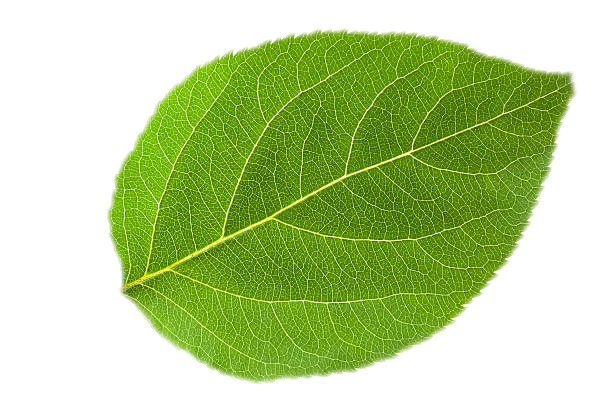
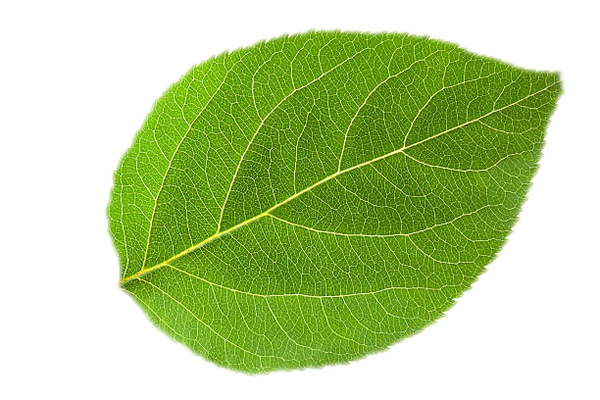
added image resize to improve performance in sesarching for graphs

diff --git a/isolate_leaf.py b/isolate_leaf.py
@@ -18,7 +18,7 @@ import sys
 import numpy as np
 import cv2
 from pathlib import Path
-
+from PIL import Image
 
 # ── Background type detection ─────────────────────────────────────────────────
 
@@ -185,6 +185,7 @@ def isolate_leaf(input_path: str, output_path: str | None = None) -> str:
     )
 
     bgr = cv2.imread(input_path)
+
     if bgr is None:
         raise FileNotFoundError(f"Cannot load: {input_path}")
     h, w = bgr.shape[:2]
@@ -196,6 +197,14 @@ def isolate_leaf(input_path: str, output_path: str | None = None) -> str:
         mask = extract_cluttered(bgr)
 
     feather_and_save(bgr, mask, output_path, preview_path)
+
+    preview = Image.open(preview_path)
+    preview.convert("RGB")
+    preview.thumbnail((600,600), Image.LANCZOS)
+
+    preview.save(preview_path)
+    print(preview.size)
+
     return preview_path
 
 

diff --git a/extractLeafVein.py b/extractLeafVein.py
@@ -160,7 +160,7 @@ def build_graph(leafImage, vein, visualize=True, save_path='graph_overlay.png'):
 
 
 if __name__ == "__main__":
-    image_fileName = 'leaf13.png'
+    image_fileName = 'leaf1.png'
     image_path = f'leavesImages/{image_fileName}'
 
     if not os.path.exists(image_path):
